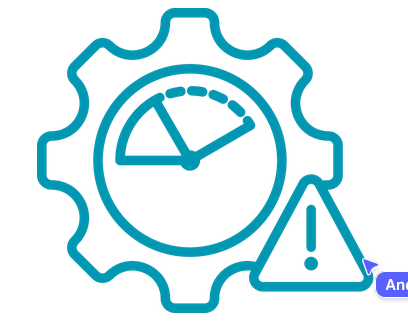
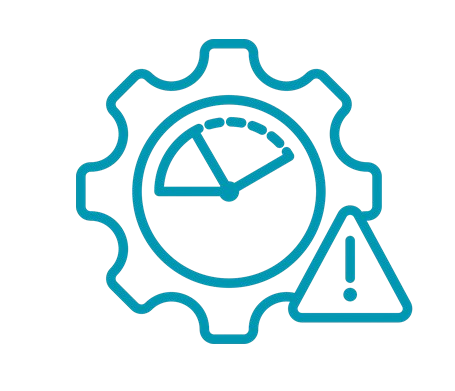
.

Changed region(s): [[0.0882, 0.0, 1.0, 0.9524]]

diff --git a/index.html b/index.html
@@ -170,7 +170,7 @@
         </div>
 
         <div class="WhyUsItem">
-            <img src="assets/images/Interoperability.png" alt="">
+            <img src="assets/images/Interoperability2.png" alt="">
             <div class="WhyUsText">
                 <h2>Interoperability</h2>
                 <p>Our stations are compatible with a wide range of electric vessels, ensuring seamless charging
@@ -582,8 +582,8 @@
 
             <div class="Team-Item">
                 <img src="assets/images/avatar0.png" alt="Team Member">
-                <h3> Name Surname</h3>
-                <p>Title</p>
+                <h3>Emine Selin</h3>
+                <p>Software Engineer</p>
             </div>
 
         </div>

diff --git a/assets/css/SRD.css b/assets/css/SRD.css
@@ -449,8 +449,8 @@ nav {
 
 .HowWeSolve-Item {
   text-align: center;
-  width: 300px;
-  height: 450px;
+  width: 400px;
+  height: 400px;
   border-bottom: 1px solid #006c8b;
   border-top: 1px solid #006c8b;
   padding-block: 20px;
